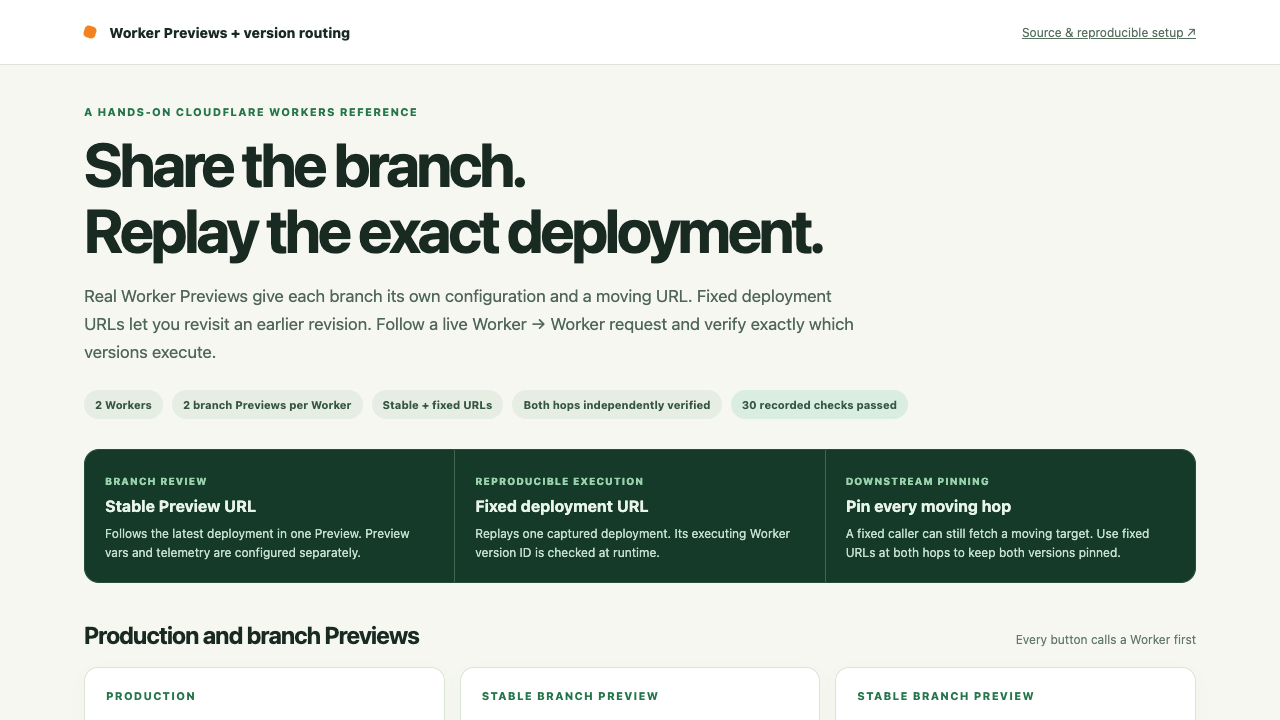
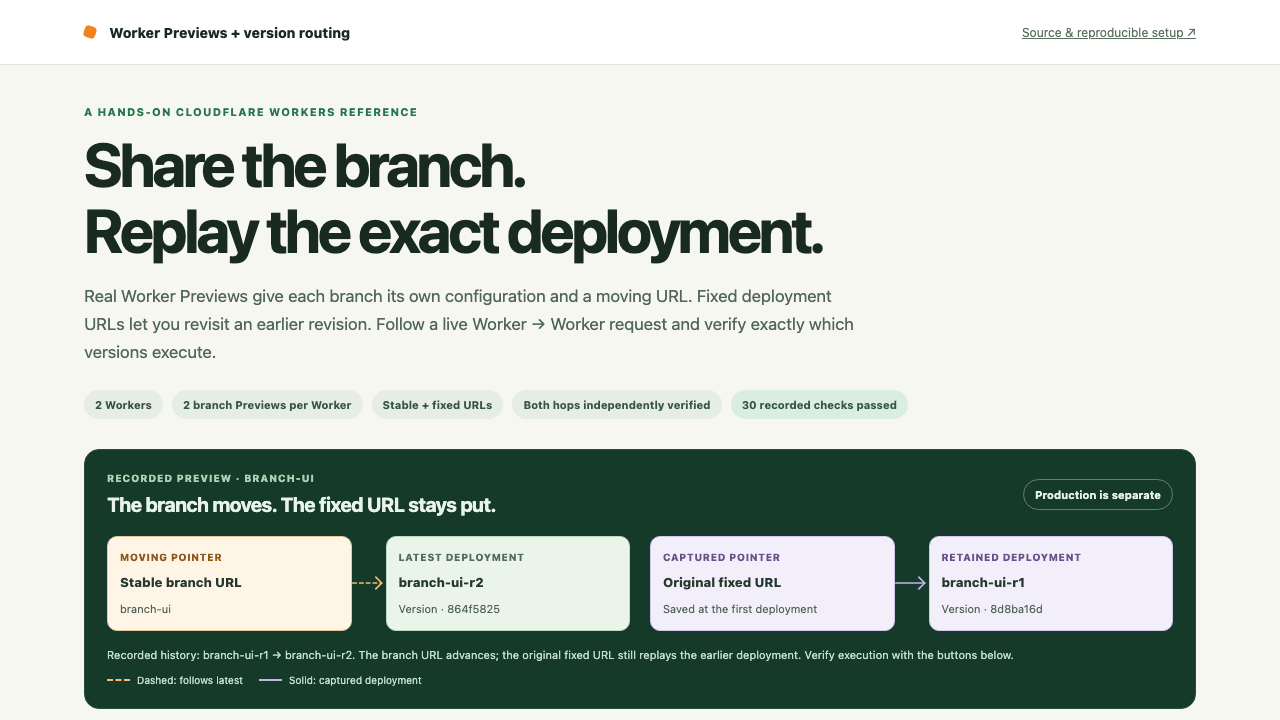
Add routing diagrams to Worker Previews showcase

Changed region(s): [[0.0625, 0.6417, 0.9375, 1.0], [0.8125, 0.6722, 0.9062, 0.7028]]

diff --git a/workers/target/src/ui.ts b/workers/target/src/ui.ts
@@ -1,6 +1,7 @@
 /** A read-only showcase: every action sends a real request through a caller Worker. */
 import type { PreviewBranch, VerificationCheck, VersionEntry } from "../../shared/catalog";
 import { verifiedPreviewBranches } from "../../shared/catalog";
+import { renderBranchDiagram, renderPinningDiagram, renderVersionRoutingDiagram } from "./diagrams";
 
 interface UiConfig {
 	worker: string;
@@ -29,8 +30,8 @@ export function renderPage(config: UiConfig): string {
 	const first = movingBranch?.revisions[0];
 	const latest = movingBranch?.revisions.at(-1);
 	const pairReceipt = { previewKey: movingBranch?.key ?? "", callerPreviewId: movingBranch?.caller?.id ?? "", targetPreviewId: movingBranch?.target.id ?? "", callerDeploymentId: first?.caller?.id ?? "" };
-	const pinning = first?.caller && latest ? `
-<div class="pair-grid"><article class="card"><span class="label amber">Caller pinned · target moving</span><h3>One fixed hop is not enough.</h3><p>The caller's revision-1 deployment is fixed, but it fetches the stable target branch URL. The target now runs <strong>${html(latest.target.release)}</strong>.</p><code class="address">${html(first.caller.url)}</code><div class="actions">${button("", "Test moving target →", latest.target.versionId, first.caller.url, first.caller.versionId, { ...pairReceipt, targetDeploymentId: latest.target.id })}</div></article><article class="card pinned"><span class="label">Caller pinned · target pinned</span><h3>Replay the exact request chain.</h3><p>Use the same caller deployment with its captured fixed target URL. The target still runs <strong>${html(first.target.release)}</strong>.</p><code class="address">${html(first.target.url)}</code><div class="actions">${button("deployment=pinned", "Test both pins →", first.target.versionId, first.caller.url, first.caller.versionId, { ...pairReceipt, targetDeploymentId: first.target.id })}</div></article></div>
+	const pinning = movingBranch && first?.caller && latest ? `
+<div class="pair-grid"><article class="card"><span class="label amber">Caller pinned · target moving</span><h3>One fixed hop is not enough.</h3><p>The caller's revision-1 deployment is fixed, but it fetches the stable target branch URL. The target now runs <strong>${html(latest.target.release)}</strong>.</p>${renderPinningDiagram(movingBranch, first, latest, false)}<code class="address">${html(first.caller.url)}</code><div class="actions">${button("", "Test moving target →", latest.target.versionId, first.caller.url, first.caller.versionId, { ...pairReceipt, targetDeploymentId: latest.target.id })}</div></article><article class="card pinned"><span class="label">Caller pinned · target pinned</span><h3>Replay the exact request chain.</h3><p>Use the same caller deployment with its captured fixed target URL. The target still runs <strong>${html(first.target.release)}</strong>.</p>${renderPinningDiagram(movingBranch, first, latest, true)}<code class="address">${html(first.target.url)}</code><div class="actions">${button("deployment=pinned", "Test both pins →", first.target.versionId, first.caller.url, first.caller.versionId, { ...pairReceipt, targetDeploymentId: first.target.id })}</div></article></div>
 <p class="note">Both buttons invoke caller version <code>${html(first.caller.versionId)}</code>. Compare the target version IDs in the response panel. Fixed URLs pin executable deployments; they do not snapshot external data.</p>` : '<p class="empty">Deploy two revisions of one paired Preview to populate the request-chain proof.</p>';
 	const versionHost = `${config.worker}.${config.workersDevSubdomain}.workers.dev`;
 	const candidate = config.candidateVersionId;
@@ -43,19 +44,21 @@ export function renderPage(config: UiConfig): string {
 <html lang="en"><head><meta charset="utf-8"><meta name="viewport" content="width=device-width,initial-scale=1"><meta name="description" content="Explore Cloudflare Worker Previews, replay fixed deployments, and verify exact caller and target version IDs."><title>Worker Previews &amp; Exact Version Pinning</title>
 <style>
 :root{font-family:Inter,ui-sans-serif,system-ui,-apple-system,BlinkMacSystemFont,"Segoe UI",sans-serif;color:#192a22;background:#f6f7f1;font-synthesis:none}*{box-sizing:border-box}body{margin:0}button,a,input{font:inherit}a{color:inherit}.wrap{max-width:1160px;margin:auto;padding:0 24px}.mast{border-bottom:1px solid #dde3d7;background:#fff}.mast .wrap{min-height:64px;display:flex;align-items:center;justify-content:space-between;gap:12px}.brand{font-size:14px;font-weight:800}.brand i{display:inline-block;width:12px;height:12px;border-radius:4px;background:#f48120;transform:rotate(18deg);margin-right:10px}.mast a{font-size:12px;color:#59705e}main{padding:40px 24px 72px!important}.eyebrow,.label{font-size:11px;text-transform:uppercase;letter-spacing:.11em;font-weight:800;color:#26764b}.hero{max-width:870px}.hero h1{font-size:clamp(38px,5vw,61px);line-height:1.08;letter-spacing:-.05em;margin:14px 0 18px}.hero p{font-size:17px;line-height:1.65;color:#50665a;margin:0;max-width:790px}.chips{display:flex;flex-wrap:wrap;gap:9px;margin:24px 0 30px}.chip{font-size:11px;font-weight:750;padding:8px 11px;border-radius:100px;background:#e6ede3;color:#355741}.chip.verified{background:#d9eee0}.flow{display:grid;grid-template-columns:repeat(3,1fr);gap:1px;background:#446651;border:1px solid #274d37;border-radius:15px;overflow:hidden;margin-bottom:38px}.flow>div{background:#153a29;color:#e8f4e9;padding:20px}.flow small{color:#99d3ae;font-size:10px;text-transform:uppercase;letter-spacing:.1em;font-weight:800}.flow strong{display:block;margin:9px 0;font-size:16px}.flow p{margin:0;font-size:12px;line-height:1.6;color:#c5dfce}.section-heading{display:flex;justify-content:space-between;gap:12px;align-items:baseline;margin:0 0 18px}.section-heading h2{font-size:24px;letter-spacing:-.035em;margin:0}.section-heading span{font-size:12px;color:#64786b}.cards{display:grid;grid-template-columns:repeat(3,minmax(0,1fr));gap:15px}.card{display:flex;flex-direction:column;border:1px solid #dbe5d5;background:#fff;border-radius:14px;padding:21px;box-shadow:0 6px 20px #18372706}.card h3,.revision h3{font-size:21px;letter-spacing:-.035em;margin:15px 0 8px}.card p,.revision p{font-size:13px;line-height:1.6;color:#5b7162;margin:0 0 17px}.address{display:block;background:#eff4eb;padding:11px;border-radius:8px;font:11px/1.6 ui-monospace,SFMono-Regular,Menlo,monospace;overflow-wrap:anywhere;color:#2d5538;margin-top:auto}.actions{display:flex;flex-wrap:wrap;gap:8px;margin-top:16px}.btn{display:inline-block;border:1px solid #286e44;background:#246b43;color:#fff;text-decoration:none;border-radius:7px;padding:9px 12px;font-size:12px;font-weight:750;cursor:pointer}.btn:hover{background:#194f30}.btn.secondary{background:#fff;color:#2b6841;border-color:#b1c8b3}.btn:focus-visible,a:focus-visible,summary:focus-visible{outline:3px solid #f48120;outline-offset:3px}.btn:disabled{opacity:.65;cursor:wait}.amber{color:#a16a20}dl{margin:13px 0 0;font-size:11px}dt{font-weight:750;color:#7a8c7e;margin:8px 0 4px}dd{margin:0;overflow-wrap:anywhere}.mono{font-family:ui-monospace,SFMono-Regular,Menlo,monospace;color:#305641}.section{margin-top:40px}.history{display:grid;grid-template-columns:repeat(2,minmax(0,1fr));gap:13px}.revision{background:#fff;border:1px solid #dbe5d5;border-radius:13px;padding:20px;display:flex;flex-direction:column}.revision .actions{margin-top:auto;padding-top:16px}.pair-grid{display:grid;grid-template-columns:repeat(2,minmax(0,1fr));gap:16px}.pinned{border-color:#92bd9e;background:#f5fbf4}.note,.empty{font-size:12px;line-height:1.7;color:#5e7364;overflow-wrap:anywhere}.note code{font-size:11px}.console{margin-top:36px;border:1px solid #cfdece;border-radius:14px;overflow:hidden;background:#fff;scroll-margin-top:20px}.console-head{padding:15px 19px;border-bottom:1px solid #dfe8da;display:flex;justify-content:space-between;gap:10px}.console-head strong{font-size:14px}.console-head span{font-size:11px;color:#60806a;overflow-wrap:anywhere}.console pre{min-height:130px;max-height:410px;overflow:auto;margin:0;padding:19px;background:#f9fbf6;font:12px/1.65 ui-monospace,SFMono-Regular,Menlo,monospace;white-space:pre-wrap;overflow-wrap:anywhere;color:#275037}.status{padding:12px 19px;margin:0;border-top:1px solid #dfe8da;font-size:12px;color:#396447}.status.error{color:#a73d25}.version-row{display:flex;flex-wrap:wrap;gap:12px;align-items:center;border:1px solid #dce6d6;padding:12px;border-radius:9px;background:#fff}.version-row strong{font-size:12px}.version-row code{flex:1;font:11px ui-monospace,SFMono-Regular,Menlo,monospace;overflow-wrap:anywhere}.version-list{display:grid;grid-template-columns:repeat(2,minmax(0,1fr));gap:9px;margin-top:17px}details{margin-top:34px;border:1px solid #d6e2d1;border-radius:13px;padding:18px;background:#edf3e8}summary{font-size:15px;font-weight:800;cursor:pointer}details>p{font-size:13px;line-height:1.7;color:#576d5e}.reference{display:grid;grid-template-columns:repeat(2,1fr);gap:17px;margin-top:30px}.reference h3{font-size:14px;margin:0 0 9px}.reference p{font-size:12px;line-height:1.7;color:#5f7465;margin:0}.reference a{color:#246c43}.footer{margin-top:34px;font-size:12px;color:#617866;line-height:1.7}.snapshot{padding:12px 16px;background:#fff0d9;border:1px solid #e7c795;border-radius:9px;font-size:12px;margin-bottom:25px}.setup{padding:20px;background:#fff;border:1px dashed #bacfb4;border-radius:12px;color:#54705b;font-size:13px}
-@media(max-width:850px){.cards{grid-template-columns:1fr}.flow,.history,.pair-grid,.reference,.version-list{grid-template-columns:1fr}main{padding-top:30px!important}.section-heading{align-items:start;flex-direction:column;gap:5px}.console-head{flex-direction:column}.mast .wrap{flex-wrap:wrap;padding-top:12px;padding-bottom:12px}.hero h1{font-size:40px}}@media(prefers-reduced-motion:reduce){*{scroll-behavior:auto!important}}
+.route-diagram{margin:20px 0;min-width:0}.diagram-heading{display:flex;align-items:center;justify-content:space-between;gap:16px;margin-bottom:18px}.diagram-kicker{display:block;font-size:10px;font-weight:800;text-transform:uppercase;letter-spacing:.1em;color:#59705e}.diagram-heading h2,.diagram-heading h3{font-size:20px;line-height:1.35;letter-spacing:-.025em;margin:7px 0 0}.diagram-production{font-size:11px;font-weight:700;padding:8px 11px;border:1px solid #63816d;border-radius:100px;white-space:nowrap}.branch-map{padding:22px;border:1px solid #274d37;border-radius:15px;background:#153a29;color:#e8f4e9;margin:0 0 38px}.branch-map .diagram-kicker{color:#a8d3b5}.branch-map-grid{display:grid;grid-template-columns:repeat(2,minmax(0,1fr));gap:20px}.diagram-flow{display:grid;grid-template-columns:minmax(0,1fr) 34px minmax(0,1fr);align-items:center;min-width:0}.diagram-flow.three-hop{grid-template-columns:minmax(0,1fr) 28px minmax(0,1fr) 28px minmax(0,1fr)}.diagram-node{min-width:0;border:1px solid #d4ded0;border-radius:10px;padding:13px 12px;background:#f8faf5;color:#26392e;text-align:left;align-self:stretch;display:flex;flex-direction:column;justify-content:center;gap:8px;overflow-wrap:anywhere}.diagram-node.moving{background:#fff5e7;border-color:#e7c89b}.diagram-node.fixed{background:#f2effa;border-color:#d4c8e9}.diagram-node.latest{background:#eaf4e9;border-color:#bed8c1}.diagram-role{font-size:10px;font-weight:800;letter-spacing:.065em;text-transform:uppercase;color:#536c5b;line-height:1.5}.diagram-node.moving .diagram-role{color:#8b591c}.diagram-node.fixed .diagram-role{color:#685187}.diagram-node strong{font-size:13px;font-weight:800;line-height:1.45}.diagram-detail{font-size:11px;line-height:1.55;color:#506359}.diagram-edge{display:flex;align-items:center;justify-content:center;color:#8b9b8c}.diagram-edge svg{display:block;width:100%;height:20px;fill:none;stroke:currentColor;stroke-width:2;stroke-linecap:round;stroke-linejoin:round}.diagram-edge.moving{color:#b47a32}.diagram-edge.moving .edge-line{stroke-dasharray:4 4}.diagram-edge.fixed{color:#7a609f}.branch-map .diagram-edge.moving{color:#f5bd76}.branch-map .diagram-edge.fixed{color:#c4b5e8}.diagram-caption{margin-top:15px;color:#5d7063;font-size:11px;line-height:1.65;overflow-wrap:anywhere}.branch-map .diagram-caption{color:#c5dfce}.diagram-legend{display:flex;flex-wrap:wrap;gap:16px;margin-top:10px;font-size:10px;color:#c5dfce}.diagram-legend>span{display:flex;align-items:center;gap:7px}.line-swatch{display:inline-block;width:23px;border-top:2px solid #c4b5e8}.line-swatch.moving{border-top-style:dashed;border-color:#f5bd76}.pair-diagram{margin:18px 0}.pair-diagram .diagram-node{padding:12px 9px}.pair-diagram .diagram-caption{font-size:11px}.version-map{border:1px solid #dbe5d5;border-radius:14px;padding:22px;background:#fff;margin:22px 0}.version-map-route+.version-map-route{border-top:1px solid #e3e9dd;padding-top:18px;margin-top:18px}.diagram-route-label{display:block;font-size:11px;font-weight:800;margin-bottom:10px;color:#5d7063}
+@media(max-width:850px){.cards{grid-template-columns:1fr}.flow,.history,.pair-grid,.reference,.version-list{grid-template-columns:1fr}main{padding-top:30px!important}.section-heading{align-items:start;flex-direction:column;gap:5px}.console-head{flex-direction:column}.mast .wrap{flex-wrap:wrap;padding-top:12px;padding-bottom:12px}.hero h1{font-size:40px}.branch-map-grid{grid-template-columns:1fr}.diagram-heading{align-items:flex-start;flex-wrap:wrap}}@media(max-width:550px){.branch-map,.version-map{padding:18px}.diagram-flow,.diagram-flow.three-hop{grid-template-columns:minmax(0,1fr);gap:0}.diagram-node,.pair-diagram .diagram-node{padding:13px 15px}.diagram-edge{height:32px}.diagram-edge svg{width:28px;height:20px;transform:rotate(90deg)}.branch-map-grid{gap:24px}.diagram-heading h2,.diagram-heading h3{font-size:18px}.diagram-node strong{font-size:14px}.diagram-detail{font-size:12px}}@media(prefers-reduced-motion:reduce){*{scroll-behavior:auto!important}}
+.revision{min-width:0}.revision h3{overflow-wrap:anywhere}
 </style></head><body>
 <header class="mast"><div class="wrap"><div class="brand"><i aria-hidden="true"></i> Worker Previews + version routing</div><a href="https://github.com/Gryczka/cloudflare-worker-version-routing" target="_blank" rel="noopener noreferrer">Source &amp; reproducible setup ↗</a></div></header>
 <main class="wrap">
 ${config.environment === "preview" ? `<div class="snapshot">You are viewing a deployment of <strong>${html(config.previewKey)}</strong>. Its UI catalog is a snapshot from upload time; use the production showcase for the latest paired history.</div>` : ""}
 <section class="hero"><div class="eyebrow">A hands-on Cloudflare Workers reference</div><h1>Share the branch.<br>Replay the exact deployment.</h1><p>Real Worker Previews give each branch its own configuration and a moving URL. Fixed deployment URLs let you revisit an earlier revision. Follow a live Worker → Worker request and verify exactly which versions execute.</p></section>
 <div class="chips"><span class="chip">2 Workers</span><span class="chip">${config.previews.length} branch Previews per Worker</span><span class="chip">Stable + fixed URLs</span><span class="chip">Both hops independently verified</span>${checks.length ? `<span class="chip verified">${checks.length} recorded checks passed</span>` : ""}</div>
-<section class="flow" aria-label="Three routing guarantees"><div><small>Branch review</small><strong>Stable Preview URL</strong><p>Follows the latest deployment in one Preview. Preview vars and telemetry are configured separately.</p></div><div><small>Reproducible execution</small><strong>Fixed deployment URL</strong><p>Replays one captured deployment. Its executing Worker version ID is checked at runtime.</p></div><div><small>Downstream pinning</small><strong>Pin every moving hop</strong><p>A fixed caller can still fetch a moving target. Use fixed URLs at both hops to keep both versions pinned.</p></div></section>
+${renderBranchDiagram(movingBranch ?? config.previews[0])}
 <section aria-labelledby="branches"><div class="section-heading"><h2 id="branches">Production and branch Previews</h2><span>Every button calls a Worker first</span></div><div class="cards"><article class="card"><span class="label">Production</span><h3>The public deployment</h3><p>Creating or updating a Preview does not promote it to production.</p><code class="address">${html(config.targetOrigin)}</code><div class="actions">${button("", "Call production →")}${link(config.targetOrigin, "Open health ↗")}</div></article>${branchCards}</div>${config.previews.length ? "" : '<p class="setup">Run <code>npm run bootstrap</code> to create the branch Previews, replay history, and advanced version-routing lab.</p>'}</section>
 <section class="section" aria-labelledby="history"><div class="section-heading"><h2 id="history">A branch moves. Its history stays addressable.</h2><span>Deployment ID ≠ assumed Worker version ID</span></div><div class="history">${revisionCards || '<p class="empty">The generated deployment manifest is not populated yet.</p>'}</div></section>
 <section class="section" aria-labelledby="pinning"><div class="section-heading"><h2 id="pinning">Pin the whole request chain</h2><span>Same caller URL, different downstream guarantees</span></div>${pinning}</section>
 <section class="console" id="response" aria-live="polite"><div class="console-head"><strong>Live request evidence</strong><span id="source">No request yet</span></div><pre id="output">Choose a branch, fixed deployment, or paired request above.</pre><p class="status" id="status">Ready to verify both execution identities.</p></section>
-<details id="advanced"><summary>Advanced: exact uploaded versions and the 0% production candidate</summary><p>Version URLs inspect an uploaded version with its production resources. A fetch-style service binding and version override can select a version in the current production deployment, including one allocated 0% traffic. These are separate from branch Previews.</p>${advanced}<h3>${config.labVersions.length || "Ten"} uploaded versions, each independently callable</h3><div class="version-list">${labRows || '<p class="empty">Run the bootstrap command to populate this version manifest.</p>'}</div></details>
+<details id="advanced"><summary>Advanced: exact uploaded versions and the 0% production candidate</summary><p>Version URLs inspect an uploaded version with its production resources. A fetch-style service binding and version override can select a version in the current production deployment, including one allocated 0% traffic. These are separate from branch Previews.</p>${renderVersionRoutingDiagram(candidate)}${advanced}<h3>${config.labVersions.length || "Ten"} uploaded versions, each independently callable</h3><div class="version-list">${labRows || '<p class="empty">Run the bootstrap command to populate this version manifest.</p>'}</div></details>
 <section class="reference"><div><h3>Preview configuration and resources</h3><p><a href="https://developers.cloudflare.com/workers/previews/configuration/">Preview vars and bindings</a> are explicit. <a href="https://developers.cloudflare.com/workers/previews/resources/">Durable Objects and Containers get per-Preview resources</a>; KV, D1, and R2 remain shared when bound to the same resource. This stateless lab proves configuration and execution routing.</p></div><div><h3>Observability and the public edge</h3><p>Inspect each Preview's <a href="https://developers.cloudflare.com/workers/previews/test-and-debug/">logs and traces</a> in the dashboard, using the response trace ID. HTTP pairing uses <code>global_fetch_strictly_public</code>; <a href="https://developers.cloudflare.com/workers/previews/resources/#service-bindings">Preview service bindings resolve to production</a>.</p></div></section>
 <p class="footer"><a href="https://developers.cloudflare.com/workers/previews/compare-workflows/">Compare workflows</a> · <a href="https://developers.cloudflare.com/workers/previews/custom-domains/">Custom-domain Previews</a> · <a href="https://developers.cloudflare.com/workers/versions-and-deployments/version-urls/">Version URLs</a> · <a href="https://developers.cloudflare.com/workers/versions-and-deployments/version-overrides/">Version overrides</a><br>Public showcase version <code>${html(config.version)}</code>. Fixed URL availability depends on retaining the Preview and its deployment history.</p>
 </main><script type="application/json" id="config">${data}</script><script>

diff --git a/workers/target/src/diagrams.ts b/workers/target/src/diagrams.ts
@@ -1,0 +1,71 @@
+/** Readable routing figures: labels come from verified receipts, execution proof comes from requests. */
+import type { PreviewBranch, PreviewRevision } from "../../shared/catalog";
+
+export function renderBranchDiagram(branch?: PreviewBranch): string {
+	const first = branch?.revisions[0];
+	const latest = branch?.revisions.at(-1);
+	const earlierRelease = first?.release ?? "branch-ui-r1";
+	const latestRelease = latest?.release ?? "branch-ui-r2";
+	const caption = first && latest
+		? first === latest
+			? "One deployment is recorded so far. The stable and fixed URLs currently reach the same revision; advance the Preview to create replayable history."
+			: `Recorded history: ${earlierRelease} → ${latestRelease}. The branch URL advances; the original fixed URL still replays the earlier deployment. Verify execution with the buttons below.`
+		: "Illustrative routing after r1 → r2. Bootstrap the lab to capture real URLs and executing version IDs. Production is a separate deployment.";
+	return `<figure class="route-diagram branch-map" aria-labelledby="branch-map-title" aria-describedby="branch-map-caption">
+<div class="diagram-heading"><div><span class="diagram-kicker">${branch ? `Recorded Preview · ${html(branch.key)}` : "Illustrative Preview · r1 → r2"}</span><h2 id="branch-map-title">The branch moves. The fixed URL stays put.</h2></div><span class="diagram-production">Production is separate</span></div>
+<div class="branch-map-grid">
+<div class="diagram-flow" role="group" aria-label="Stable branch URL follows the latest deployment">
+${node("Moving pointer", "Stable branch URL", branch?.key ?? "branch-ui", "moving")}${arrow("moving")}${node("Latest deployment", latestRelease, latest ? version(latest.target.versionId) : "Target r2", "latest")}
+</div>
+<div class="diagram-flow" role="group" aria-label="Original fixed URL replays the earlier deployment">
+${node("Captured pointer", "Original fixed URL", "Saved at the first deployment", "fixed")}${arrow("fixed")}${node("Retained deployment", earlierRelease, first ? version(first.target.versionId) : "Target r1", "fixed")}
+</div>
+</div>
+<figcaption class="diagram-caption" id="branch-map-caption">${html(caption)}</figcaption>
+<div class="diagram-legend" aria-label="Connector legend"><span><i class="line-swatch moving" aria-hidden="true"></i>Dashed: follows latest</span><span><i class="line-swatch fixed" aria-hidden="true"></i>Solid: captured deployment</span></div>
+</figure>`;
+}
+
+export function renderPinningDiagram(branch: PreviewBranch, first: PreviewRevision, latest: PreviewRevision, pinned: boolean): string {
+	if (!first.caller) return "";
+	const target = pinned ? first : latest;
+	const id = pinned ? "pinned-path-caption" : "moving-path-caption";
+	return `<figure class="route-diagram pair-diagram" aria-labelledby="${id}">
+<div class="diagram-flow three-hop">
+${node("Fixed caller", first.caller.release, version(first.caller.versionId), "fixed")}${arrow("fixed")}${node(pinned ? "Captured target URL" : "Moving target URL", pinned ? "Fixed deployment" : "Stable branch", pinned ? first.release : branch.key, pinned ? "fixed" : "moving")}${arrow(pinned ? "fixed" : "moving")}${node("Expected target", target.release, version(target.target.versionId), pinned ? "fixed" : "latest")}
+</div>
+<figcaption class="diagram-caption" id="${id}">Recorded expectation · public HTTP at every hop. ${pinned ? "Same caller, same original target." : "Same caller, latest branch target."} Short version IDs are shown; the response below proves the full execution identities.</figcaption>
+</figure>`;
+}
+
+export function renderVersionRoutingDiagram(candidate: string): string {
+	return `<figure class="route-diagram version-map" aria-labelledby="version-map-title" aria-describedby="version-map-caption">
+<div class="diagram-heading"><div><span class="diagram-kicker">Production caller · three routes</span><h3 id="version-map-title">An upload address and a version override take different paths.</h3></div></div>
+<div class="version-map-route"><span class="diagram-route-label">01 · Default traffic</span><div class="diagram-flow three-hop">
+${node("Caller Worker", "Normal request", "No version selector", "neutral")}${arrow("neutral")}${node("Public HTTP", "Production URL", "Normal deployment routing", "neutral")}${arrow("neutral")}${node("Active deployment", "Production version", "100% default traffic", "latest")}
+</div></div>
+<div class="version-map-route"><span class="diagram-route-label">02 · Address an upload</span><div class="diagram-flow three-hop">
+${node("Caller Worker", "Upload / alias request", "Select an uploaded version", "neutral")}${arrow("neutral")}${node("Public HTTP", "Version URL / alias", "Upload's production configuration", "moving")}${arrow("neutral")}${node("Addressed upload", "Uploaded version", candidate ? `Candidate example · ${candidate.slice(0, 8)}` : "For example, the candidate", "fixed")}
+</div></div>
+<div class="version-map-route"><span class="diagram-route-label">03 · Select the 0% candidate</span><div class="diagram-flow three-hop">
+${node("Caller Worker", "Version override", "Select the candidate's UUID", "neutral")}${arrow("fixed")}${node("Service binding", "fetch() + override header", "Cloudflare-Workers-Version-Overrides", "fixed")}${arrow("fixed")}${node("Active deployment", "Candidate version", "0% default traffic · explicitly selected", "fixed")}
+</div></div>
+<figcaption class="diagram-caption" id="version-map-caption">Version URLs can reach uploads outside the active deployment. The override requires a version in that deployment; 0% describes its default traffic allocation, not its availability to an explicit override.</figcaption>
+</figure>`;
+}
+
+function node(role: string, title: string, detail: string, tone: "moving" | "fixed" | "latest" | "neutral"): string {
+	return `<div class="diagram-node ${tone}"><span class="diagram-role">${html(role)}</span><strong>${html(title)}</strong><span class="diagram-detail">${html(detail)}</span></div>`;
+}
+
+function version(id: string): string {
+	return `Version · ${id.slice(0, 8)}`;
+}
+
+function arrow(tone: "moving" | "fixed" | "neutral"): string {
+	return `<span class="diagram-edge ${tone}" aria-hidden="true"><svg viewBox="0 0 40 20" focusable="false"><path class="edge-line" d="M1 10H35"/><path d="m28 3 7 7-7 7"/></svg></span>`;
+}
+
+function html(value: string): string {
+	return value.replace(/[&<>"']/g, (character) => ({ "&": "&amp;", "<": "&lt;", ">": "&gt;", '"': "&quot;", "'": "&#39;" })[character] ?? character);
+}

diff --git a/README.md b/README.md
@@ -61,6 +61,70 @@ The caller's `global_fetch_strictly_public` flag deliberately sends global `fetc
 
 Fixed URLs pin executable deployments, **not snapshots of external data**. Previews bound to the same KV, D1, or R2 resource still share its data. Durable Objects and Containers have per-Preview resources; consult the [resource reference](https://developers.cloudflare.com/workers/previews/resources/) for each binding's behavior and limitations. This stateless lab demonstrates configuration and execution routing.
 
+### 1. A branch advances; fixed deployments stay addressable
+
+```mermaid
+flowchart LR
+    subgraph Before["After deploying branch-ui r1"]
+        StableBefore["Stable branch URL"] -. "latest" .-> FirstBefore["Target r1 · compact config"]
+        FixedBefore["Fixed r1 deployment URL"] --> FirstBefore
+    end
+    subgraph After["After advancing branch-ui to r2"]
+        StableAfter["Same stable branch URL"] -. "latest" .-> Latest["Target r2 · detailed config"]
+        FixedFirst["Same fixed r1 deployment URL"] --> FirstAfter["Target r1 · compact config"]
+        FixedLatest["Fixed r2 deployment URL"] --> Latest
+    end
+    StableBefore -->|"advance the Preview"| StableAfter
+    classDef moving fill:#fff5e7,stroke:#b47a32,color:#26392e
+    classDef fixed fill:#f2effa,stroke:#7a609f,color:#26392e
+    classDef latest fill:#eaf4e9,stroke:#6b9875,color:#26392e
+    class StableBefore,StableAfter moving
+    class FixedBefore,FixedFirst,FixedLatest,FirstBefore,FirstAfter fixed
+    class Latest latest
+```
+
+Try **Call latest** and **Replay this deployment** in the live demo. The dashed pointer follows the branch; the solid pointers address captured deployments. Preview advancement is separate from production promotion. Fixed URL availability depends on retaining the Preview and its history.
+
+### 2. Pin every moving hop
+
+```mermaid
+flowchart LR
+    Caller["Same fixed caller r1<br/>Caller version A"]
+    Caller -->|"public HTTP"| Stable["Stable target branch URL"]
+    Caller -->|"public HTTP"| Fixed["Captured fixed target URL"]
+    Stable -. "follows latest" .-> NewTarget["Target r2<br/>Target version C"]
+    Fixed --> OriginalTarget["Target r1<br/>Target version B"]
+    classDef fixed fill:#f2effa,stroke:#7a609f,color:#26392e
+    classDef moving fill:#fff5e7,stroke:#b47a32,color:#26392e
+    classDef latest fill:#eaf4e9,stroke:#6b9875,color:#26392e
+    class Caller,Fixed,OriginalTarget fixed
+    class Stable moving
+    class NewTarget latest
+```
+
+**Test moving target** keeps caller A but reaches target C. **Test both pins** uses that same caller A and retains target B. A/B/C are illustrative runtime version IDs; the live diagrams use recorded releases and short IDs, while the response inspector compares full actual IDs. Both paths use public HTTP because Preview service bindings resolve to production.
+
+### 3. An upload address and an override take different paths
+
+```mermaid
+flowchart LR
+    Caller["Production caller Worker"]
+    Caller -->|"public HTTP · production URL"| Production
+    Caller -->|"public HTTP · fixed Version URL or alias"| Upload["Addressed uploaded version<br/>May be outside the active deployment"]
+    Caller -->|"fetch-style service binding"| Override["Cloudflare-Workers-Version-Overrides<br/>Target Worker name = candidate UUID"]
+    Override -->|"explicit version selection"| Candidate
+    subgraph Active["Active production deployment"]
+        Production["Production version<br/>100% default traffic"]
+        Candidate["Candidate version<br/>0% default traffic"]
+    end
+    classDef fixed fill:#f2effa,stroke:#7a609f,color:#26392e
+    classDef latest fill:#eaf4e9,stroke:#6b9875,color:#26392e
+    class Override,Upload,Candidate fixed
+    class Production latest
+```
+
+Open **Advanced version routing** and compare **Fixed Version URL**, **Call upload alias**, and **0% version override**. Direct upload addresses do not use the traffic split. An override selects only a version in the active deployment; 0% means no default traffic allocation, rather than being unavailable to an explicit override.
+
 ## Prerequisites
 
 - Node.js `22.12.x` or a supported `24+` release. CI tests Node `22.12.0` and `24`.
